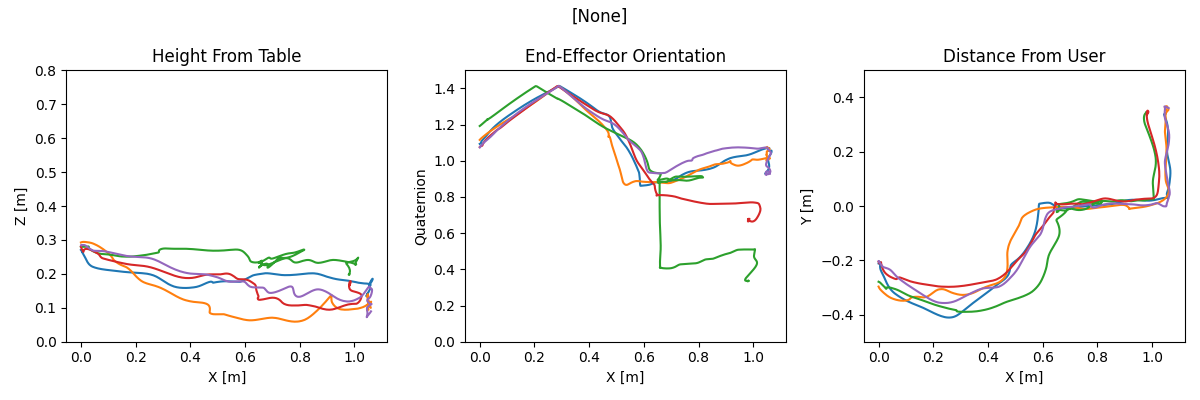
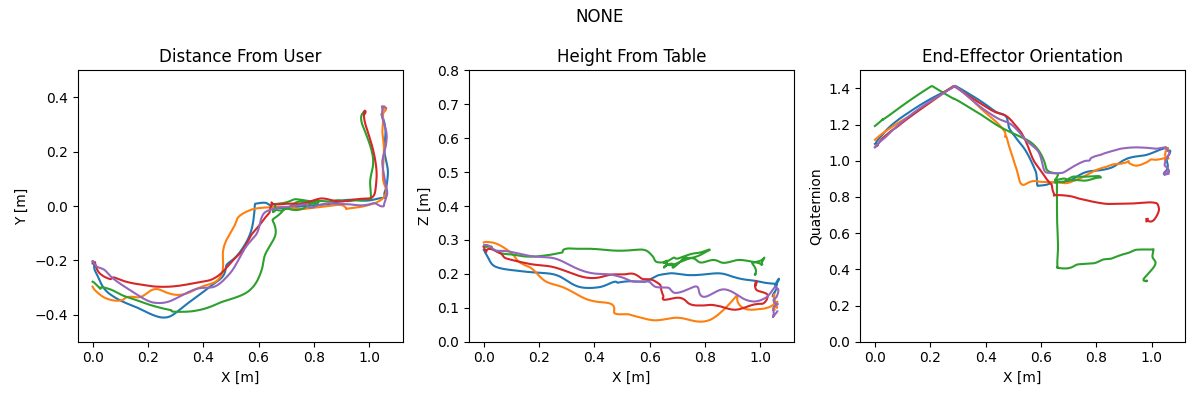
plotsGood

diff --git a/plot.py b/plot.py
@@ -19,7 +19,6 @@ Panda = TrajectoryClient()
 def region(ax, start_marg, end_marg):
     ax.axvspan(start_marg, end_marg, color='#a1d99b')
 
-
 X = {}
 Y = {}
 Z = {}
@@ -28,7 +27,7 @@ n = 5
 
 for method in ["none", "GUI", "local", "global"]:
     fig, (ax1, ax2, ax3) = plt.subplots(1, 3, figsize=(12,4))
-    fig.suptitle("[" + method.capitalize() + "]")
+    fig.suptitle(method.upper())
 
     x = {}
     y = {}
@@ -59,16 +58,28 @@ for method in ["none", "GUI", "local", "global"]:
     Z[method] = z
     Quat[method] = quat
 
-    ### plot user demonstrations: none ###
-
+    ### plot user demonstrations ###
     for user_n in range(1, n+1):
 
-        # height
-        ax1.plot(X[method]["user_" + str(user_n)], Z[method]["user_" + str(user_n)])
+        # distance
+        ax1.plot(X[method]["user_" + str(user_n)], Y[method]["user_" + str(user_n)], label="user_" + str(user_n))
         ax1.set_xlabel('X [m]')
-        ax1.set_ylabel('Z [m]')
-        ax1.set_ylim(0, 0.8)
-        ax1.title.set_text('Height From Table')
+        ax1.set_ylabel('Y [m]')
+        ax1.set_ylim(-0.5, 0.5)
+        ax1.title.set_text('Distance From User')
+        if method == "GUI":
+            region(ax3, x_margin_2, x_margin_3)
+        elif method == "global":
+            region(ax3, x_margin_1, x_margin_2)
+        elif method == "local":
+            region(ax3, x_margin_2, x_margin_3)
+
+        # height
+        ax2.plot(X[method]["user_" + str(user_n)], Z[method]["user_" + str(user_n)])
+        ax2.set_xlabel('X [m]')
+        ax2.set_ylabel('Z [m]')
+        ax2.set_ylim(0, 0.8)
+        ax2.title.set_text('Height From Table')
         if method == "GUI":
             region(ax1, ee_home_x, x_margin_1)
         elif method == "global":
@@ -77,11 +88,11 @@ for method in ["none", "GUI", "local", "global"]:
             region(ax1, x_margin_1, x_margin_2)
 
         # orientation
-        ax2.plot(X[method]["user_" + str(user_n)], Quat[method]["user_" + str(user_n)])
-        ax2.set_xlabel('X [m]')
-        ax2.set_ylabel('Quaternion')
-        ax2.set_ylim(0, 1.5)
-        ax2.title.set_text('End-Effector Orientation')
+        ax3.plot(X[method]["user_" + str(user_n)], Quat[method]["user_" + str(user_n)])
+        ax3.set_xlabel('X [m]')
+        ax3.set_ylabel('Quaternion')
+        ax3.set_ylim(0, 1.5)
+        ax3.title.set_text('End-Effector Orientation')
         if method == "GUI":
             region(ax2, x_margin_1, x_margin_2)
         elif method == "global":
@@ -89,48 +100,6 @@ for method in ["none", "GUI", "local", "global"]:
         elif method == "local":
             region(ax2, ee_home_x, x_margin_1)
 
-        # distance
-        ax3.plot(X[method]["user_" + str(user_n)], Y[method]["user_" + str(user_n)], label="user_" + str(user_n))
-        ax3.set_xlabel('X [m]')
-        ax3.set_ylabel('Y [m]')
-        ax3.set_ylim(-0.5, 0.5)
-        ax3.title.set_text('Distance From User')
-        if method == "GUI":
-            region(ax3, x_margin_2, x_margin_3)
-        elif method == "global":
-            region(ax3, x_margin_1, x_margin_2)
-        elif method == "local":
-            region(ax3, x_margin_2, x_margin_3)
 
     plt.tight_layout()
     plt.savefig("results_plot/" + method + ".png")
-
-
-
-print(X.keys())
-
-def interp(a, b):
-    a = np.arange(-0.4, 0.8, 0.1)
-    f = interpolate.interp1d(a, b)
-    bnew = f(Xnew)
-    return bnew
-
-a = X["none"]["user_1"]
-
-b = Y["none"]["user_1"]
-c = Z["none"]["user_1"]
-d = Quat["none"]["user_1"]
-
-
-
-exit()
-
-
-
-
-# handles, labels = ax3.get_legend_handles_labels()
-# fig.legend(handles, labels, loc='upper right', ncol=3)
-
-
-# To Does:
-# plot averaged user's traj for different methods
